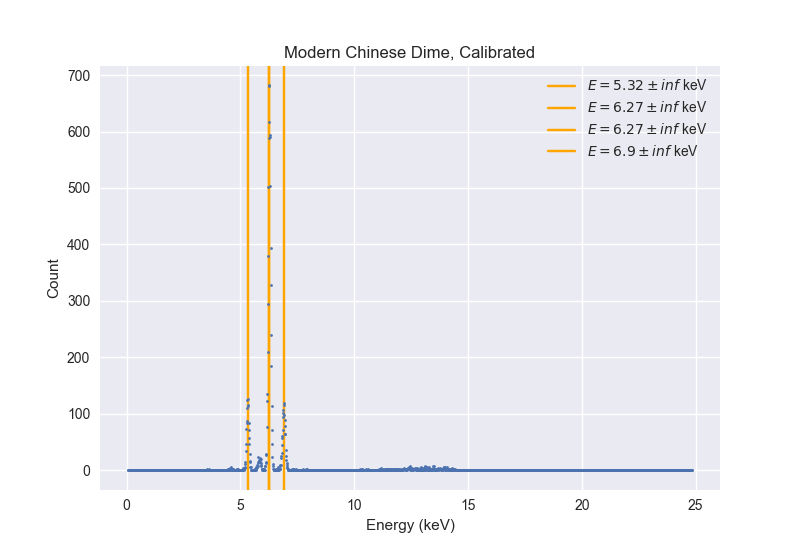
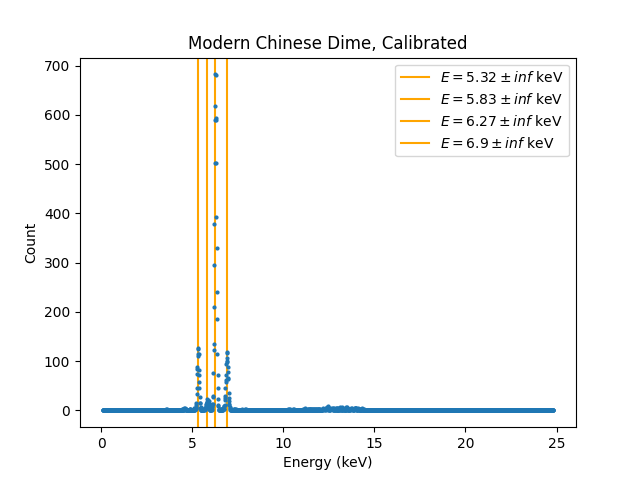
tune peak ranges & guesses for ancient + modern chinese coins

diff --git a/src/coins.py b/src/coins.py
@@ -35,6 +35,8 @@ if __name__ == "__main__":
 
     SDD_channels = np.arange(0, 2048)
 
+    plt.style.use("default")
+
     if "CN_new" in coin:
         # region: identifying peak energies for 2000s_chinese_dime
         CN_new_counts = calib.read_data(data_path / "20220401_2000s_chinese_dime.csv")
@@ -56,8 +58,8 @@ if __name__ == "__main__":
         CN_new_peak2_fit, CN_new_peak2_err = calib.fit_peak(
             SDD_channels,
             CN_new_counts,
-            463 - 25,
-            488 + 25,
+            463 - 15,
+            488 + 7,
             [20, 476, 50],
             "CN_new",
             show_fig=True,
@@ -80,7 +82,7 @@ if __name__ == "__main__":
         CN_new_peak4_fit, CN_new_peak4_err = calib.fit_peak(
             SDD_channels,
             CN_new_counts,
-            548 - 25,
+            548 - 15,
             580 + 25,
             [110, 565, 60],
             "CN_new",
@@ -136,7 +138,7 @@ if "CN_old" in coin:
         CN_old_peak1_fit, CN_old_peak1_err = calib.fit_peak(
             SDD_channels,
             CN_old_counts,
-            499 - 25,
+            499 - 20,
             521 + 25,
             [10, 512, 40],
             "CN_old",
@@ -149,7 +151,7 @@ if "CN_old" in coin:
             SDD_channels,
             CN_old_counts,
             625 - 25,
-            660 + 25,
+            660 + 20,
             [400, 643, 60],
             "CN_old",
             show_fig=True,
@@ -160,8 +162,8 @@ if "CN_old" in coin:
         CN_old_peak3_fit, CN_old_peak3_err = calib.fit_peak(
             SDD_channels,
             CN_old_counts,
-            673 - 25,
-            704 + 5,
+            673 - 15,
+            704,
             [312, 690, 50],
             "CN_old",
             show_fig=True,
@@ -172,7 +174,7 @@ if "CN_old" in coin:
         CN_old_peak4_fit, CN_old_peak4_err = calib.fit_peak(
             SDD_channels,
             CN_old_counts,
-            705 - 5,
+            705,
             725 + 25,
             [60, 713, 50],
             "CN_old",
@@ -184,7 +186,7 @@ if "CN_old" in coin:
         CN_old_peak5_fit, CN_old_peak5_err = calib.fit_peak(
             SDD_channels,
             CN_old_counts,
-            750 - 25,
+            750 - 15,
             780 + 25,
             [30, 766, 40],
             "CN_old",
